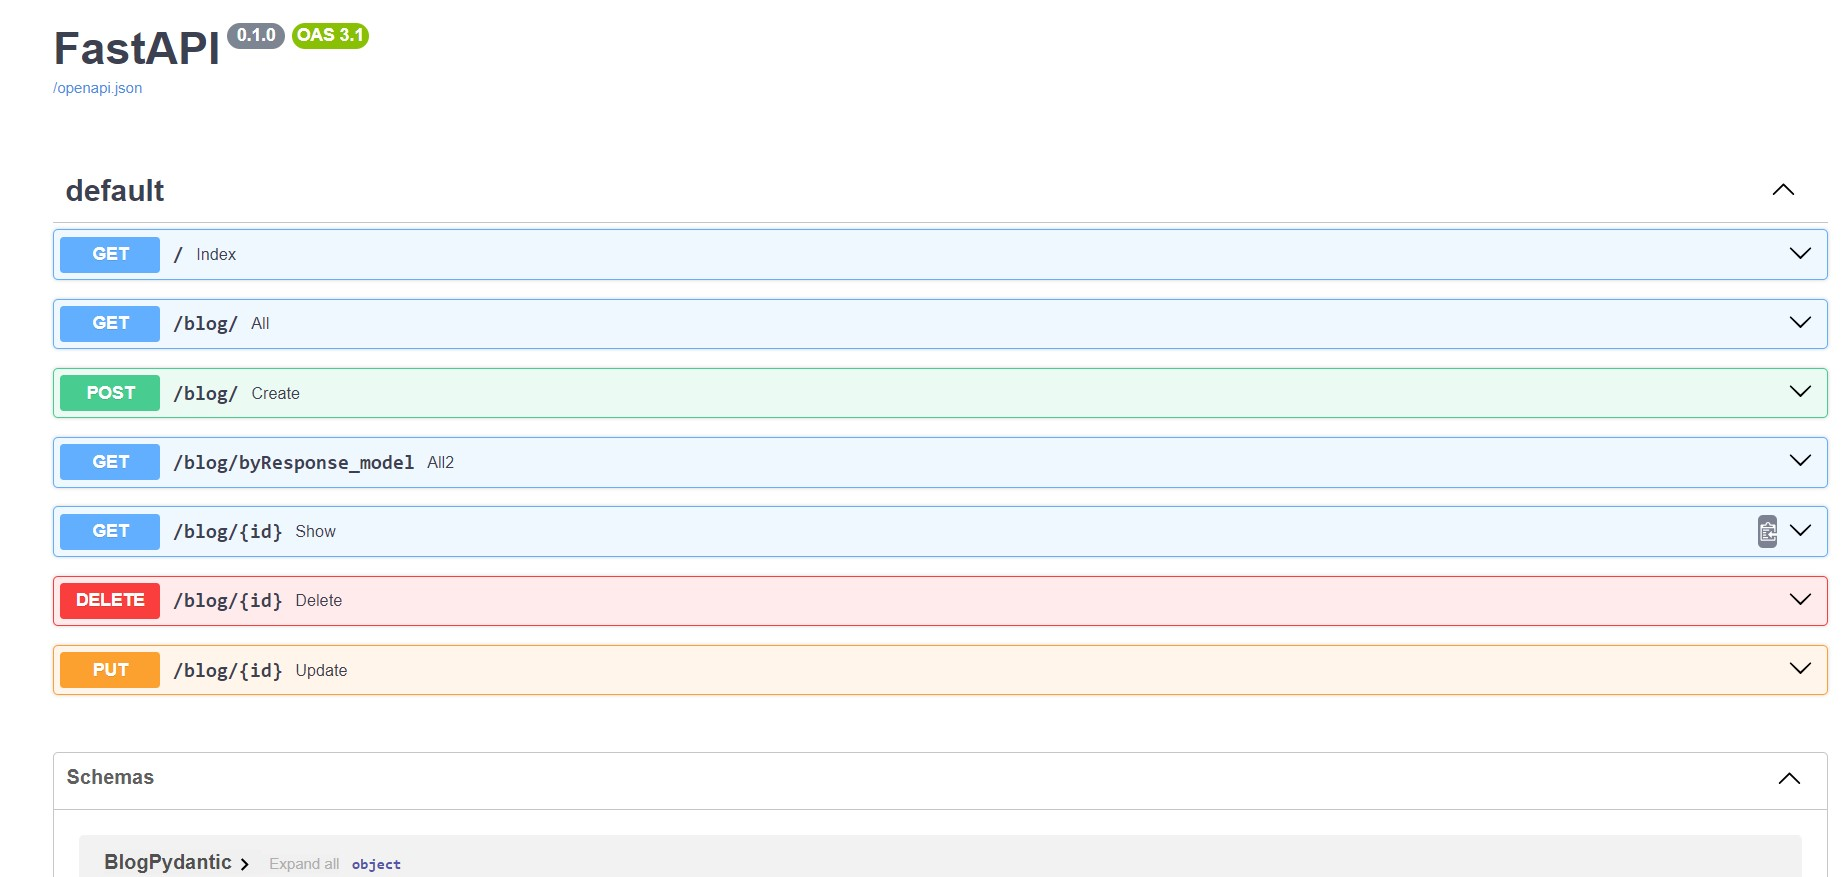
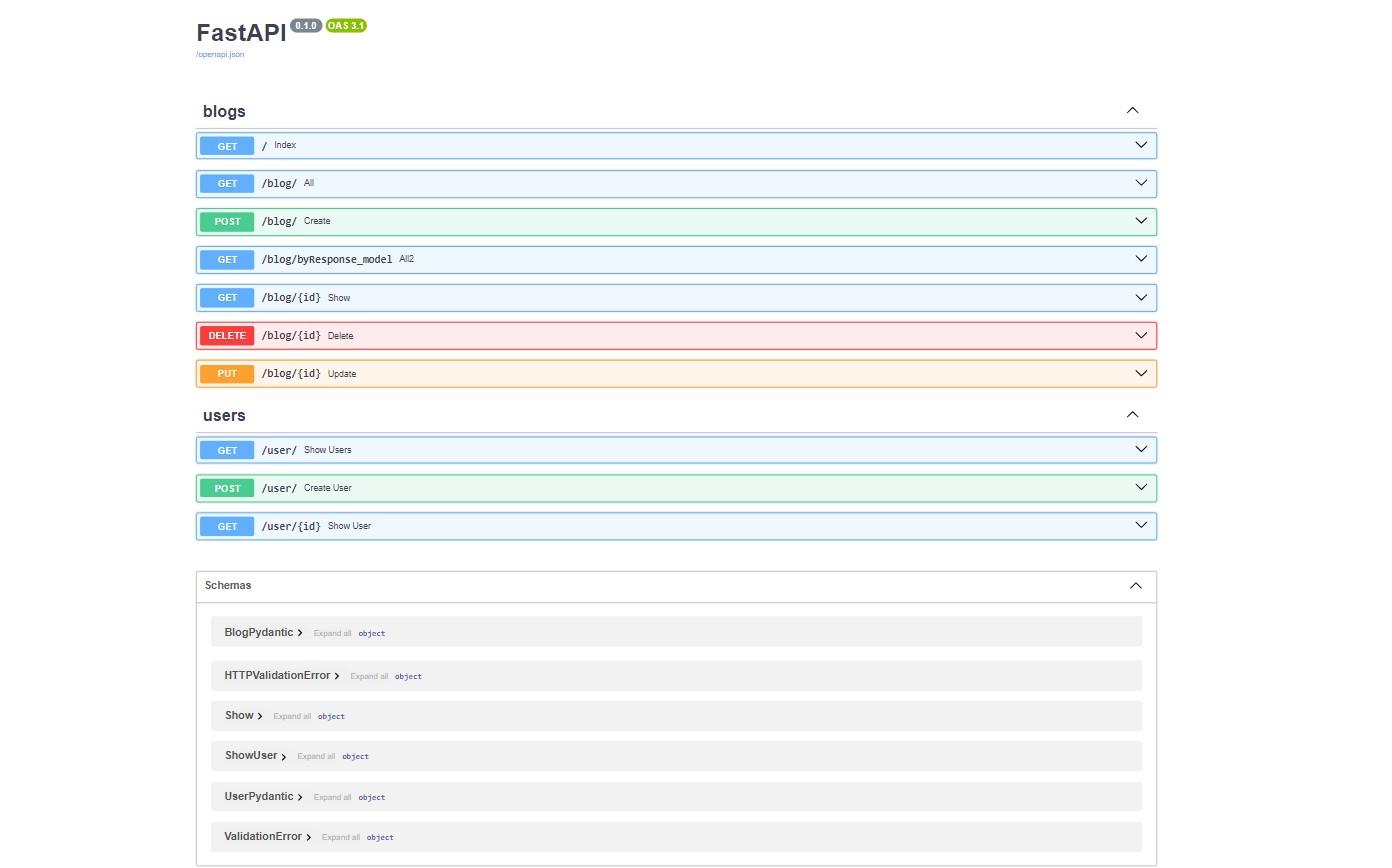
3Jan2024: SS added of all the routes/apis In this branch

diff --git a/blog/README.md b/blog/README.md
@@ -12,5 +12,5 @@
 
 # API SS:
 
-![img](./SwaggerUI_allCrud_apis.jpg)
+![userAndBlogApi](./SwaggerUI_allCrud_apis.jpg)
 
